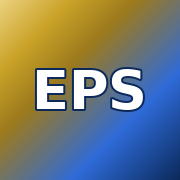
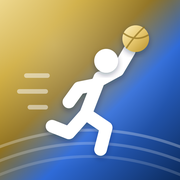
v0.8 : nouvelle icône

diff --git a/js/plus.js b/js/plus.js
@@ -2,9 +2,10 @@
    EPS Tout en 1 — Onglet PLUS : mise à jour, partage,
    à propos, confidentialité/RGPD, nouvelle année scolaire
    ========================================================= */
-const APP_VERSION = '0.7';
+const APP_VERSION = '0.8';
 const APP_URL = 'https://steffdelaseuva-hue.github.io/eps-tout-en-1/';
 const CHANGELOG = [
+  { v: '0.8', items: ['Nouvelle icône de l\'app'] },
   { v: '0.7', items: ['Couleur or (au lieu de jaune)', 'Menu Plus : Partager l\'app, Confidentialité & RGPD, À propos, Mise à jour, Nouvelle année scolaire'] },
   { v: '0.6', items: ['Nouvelles icônes originales', 'Logo Chronos EPS sur son outil'] },
   { v: '0.4', items: ['Onglet Plus : mise à jour, partage par QR code, à propos, confidentialité & RGPD', 'Nouvelle année scolaire (sauvegarde + remise à zéro choisie)'] },
@@ -87,7 +88,7 @@ function openShare() {
 /* ---------- ℹ À propos ---------- */
 function openAbout() {
   openPanel('À propos', el => {
-    el.innerHTML = `<div class="hero" style="text-align:center"><div class="logo" style="margin:0 auto 10px;width:64px;height:64px;font-size:1.4rem;border-radius:18px">EPS</div>
+    el.innerHTML = `<div class="hero" style="text-align:center"><img class="logo" src="icons/icon-192.png" alt="" style="margin:0 auto 10px;width:72px;height:72px;border-radius:18px">
         <h2>EPS Tout en 1</h2><p style="margin:6px auto 0">by <b>Steff64</b> · version ${APP_VERSION}</p></div>
       <div class="card doc" style="margin-top:14px">
         <h3>🎯 L'objectif</h3>

diff --git a/index.html b/index.html
@@ -36,7 +36,7 @@ h1,h2,h3{margin:0}
 
 /* ---------- HEADER ---------- */
 .topbar{position:sticky;top:0;z-index:20;background:var(--grad);color:#fff;padding:calc(10px + env(safe-area-inset-top)) 16px 12px;display:flex;align-items:center;gap:10px;box-shadow:0 4px 18px rgba(11,42,91,.25)}
-.logo{width:38px;height:38px;border-radius:12px;background:rgba(255,255,255,.22);display:grid;place-items:center;font-weight:900;font-size:1rem;letter-spacing:-.5px;border:1.5px solid rgba(255,255,255,.45)}
+.logo{width:40px;height:40px;border-radius:11px;border:1.5px solid rgba(255,255,255,.55);display:block;object-fit:cover}
 .topbar h1{font-size:1.15rem;font-weight:800;letter-spacing:.2px;text-shadow:0 1px 2px rgba(0,0,0,.25)}
 .topbar .sub{font-size:.72rem;opacity:.9}
 .topbar .spacer{flex:1}
@@ -177,7 +177,7 @@ th{color:var(--muted);font-size:.78rem;text-transform:uppercase}
 
 <!-- ============ HEADER ============ -->
 <div class="topbar">
-  <div class="logo">EPS</div>
+  <img class="logo" src="icons/icon-192.png" alt="">
   <div>
     <h1>EPS Tout en 1</h1>
     <div class="sub">by Steff64</div>

diff --git a/sw.js b/sw.js
@@ -1,5 +1,5 @@
 // EPS Tout en 1 — fonctionnement hors ligne (réseau d'abord, cache en secours)
-const CACHE = 'eps-tout-en-1-v7';
+const CACHE = 'eps-tout-en-1-v8';
 const FILES = ['./', './index.html', './js/icons.js', './js/outils-plus.js', './js/qr.js', './js/plus.js', './outils/chronos-eps.html',
   './manifest.webmanifest', './icons/icon-192.png', './icons/chronos-eps.png', './icons/icon-512.png', './icons/apple-touch-icon.png'];
 self.addEventListener('install', e => { e.waitUntil(caches.open(CACHE).then(c => c.addAll(FILES))); self.skipWaiting(); });
